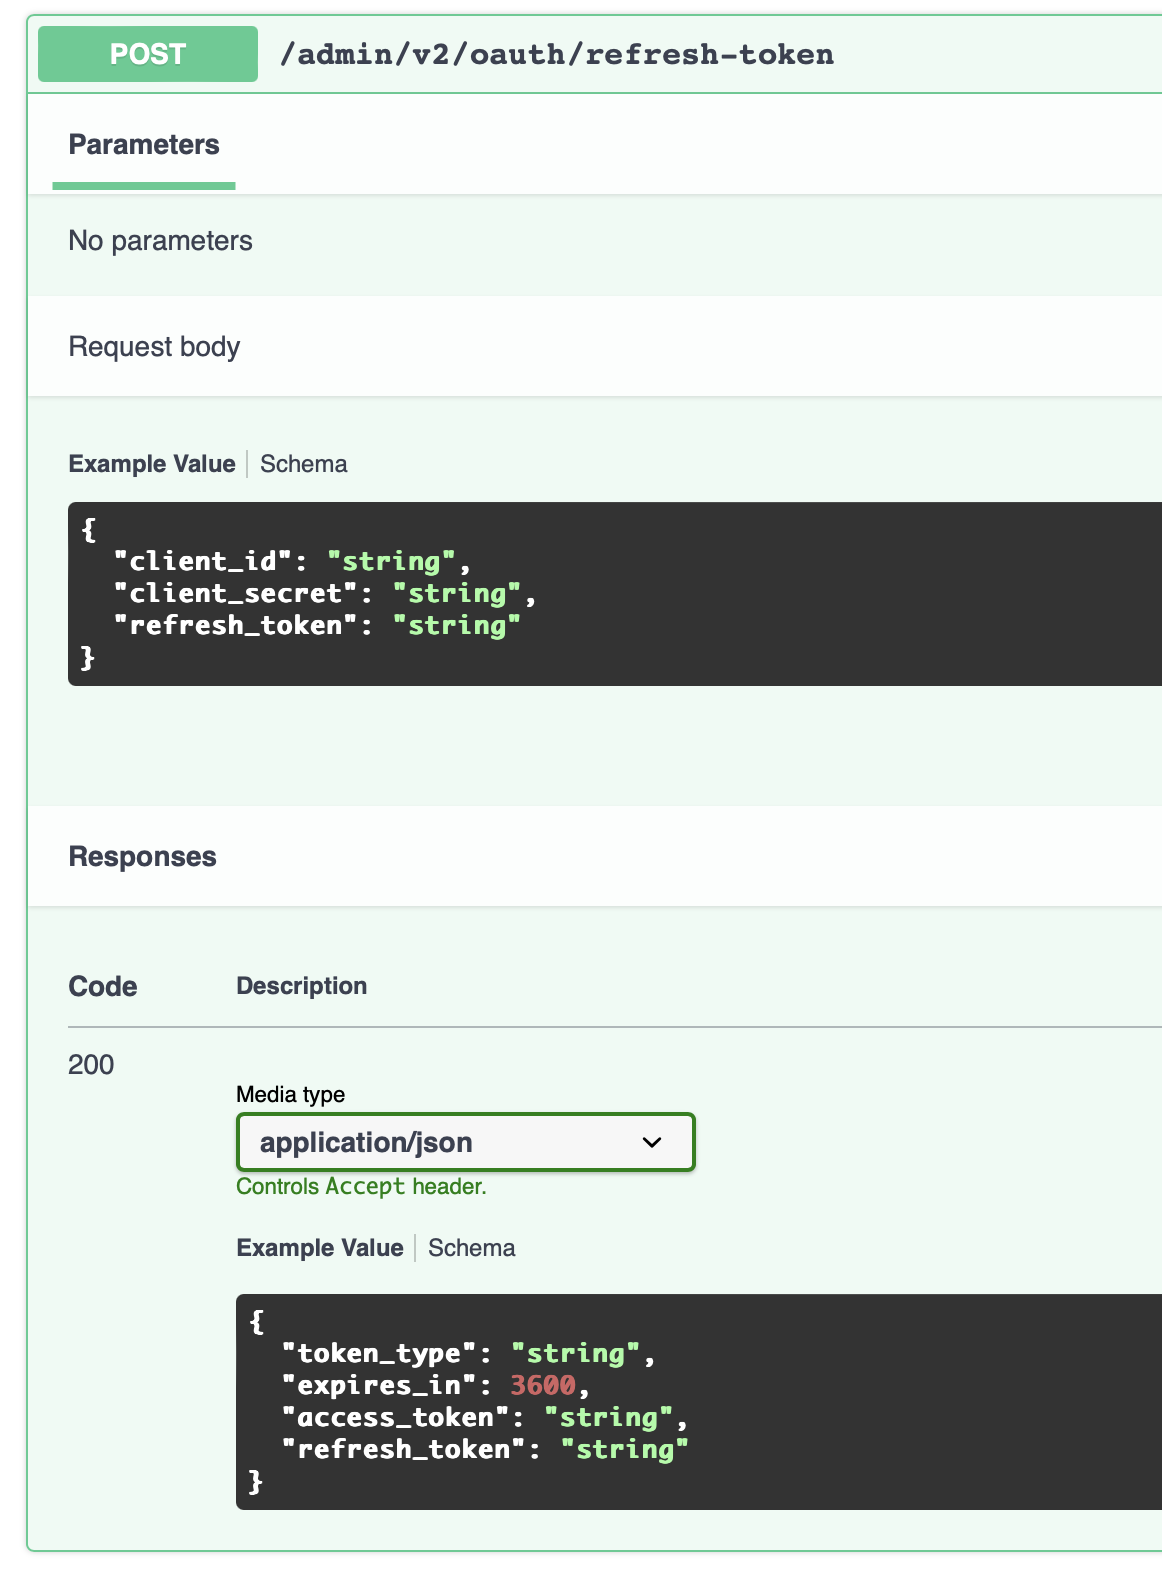
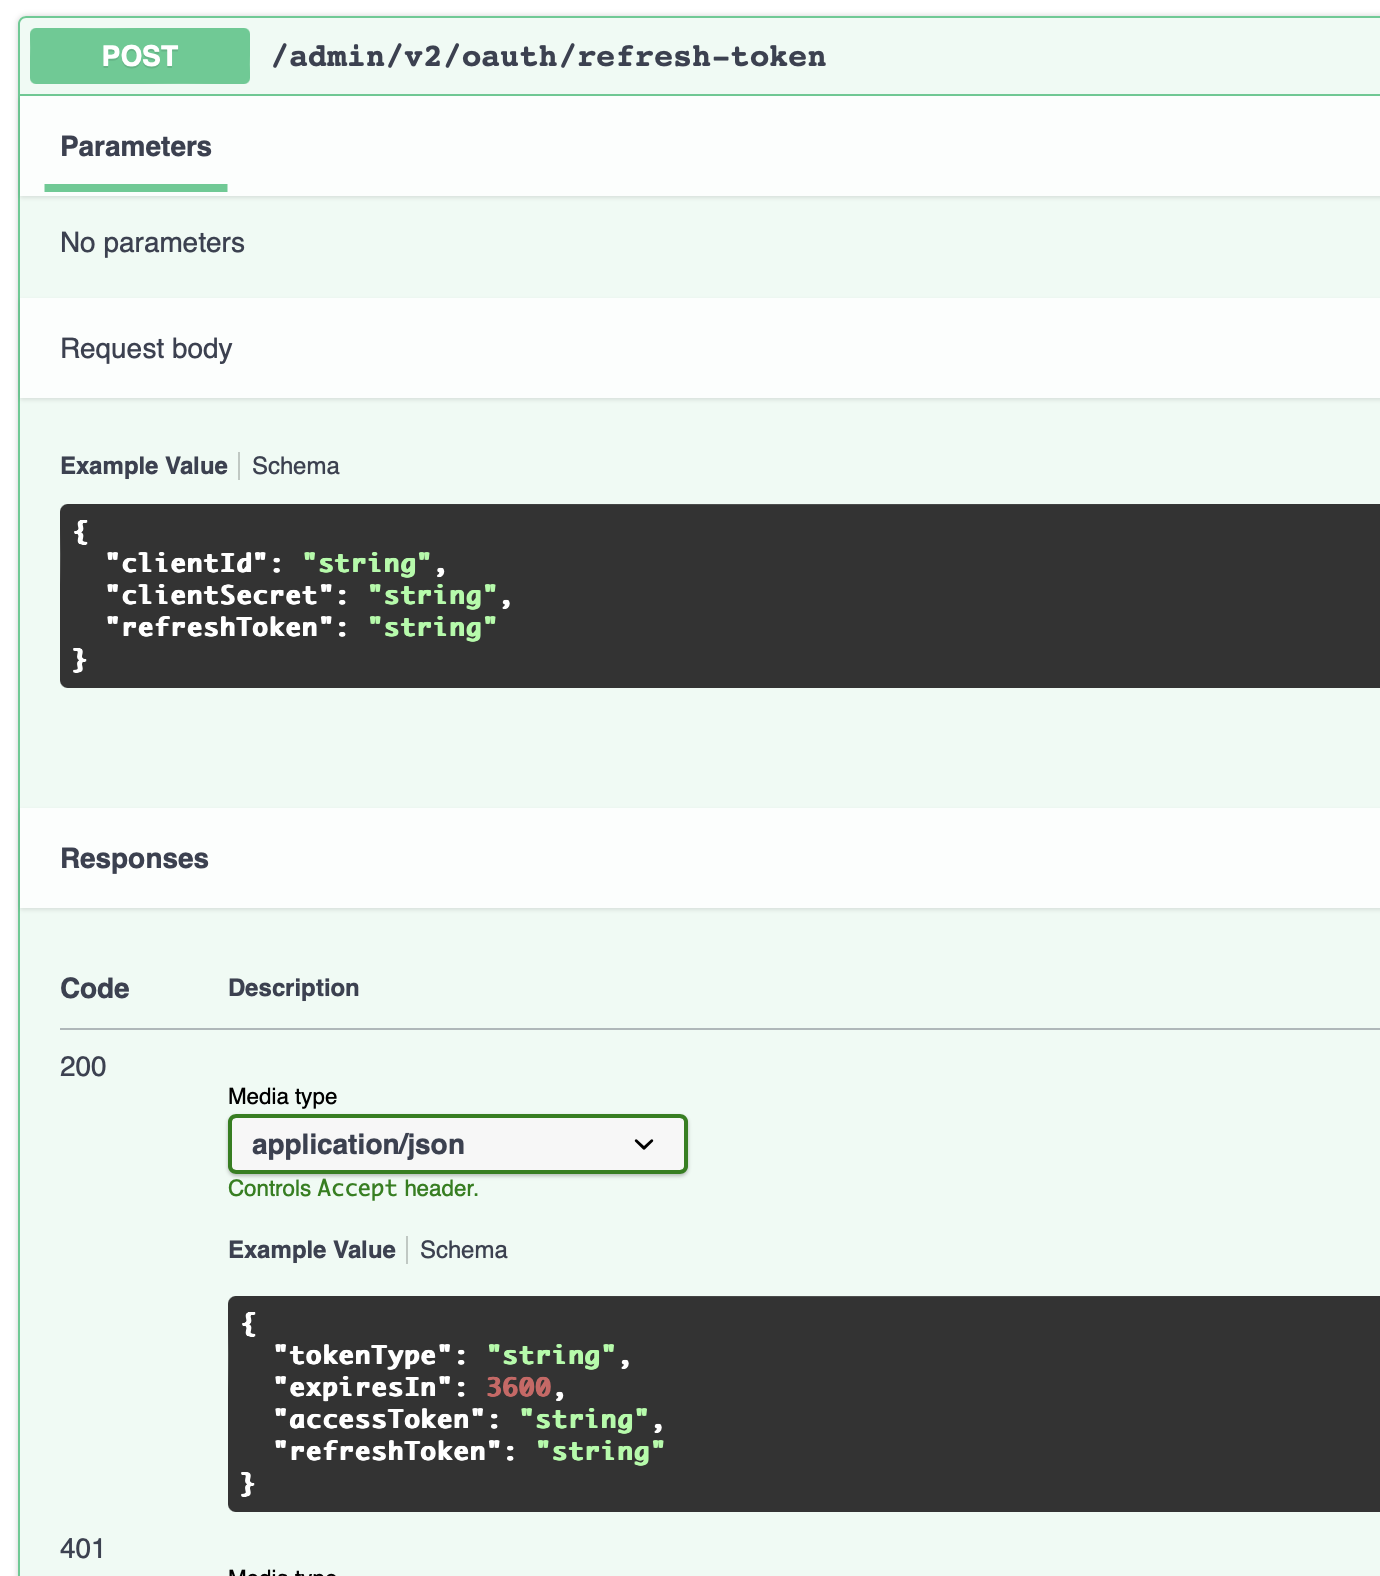
Update V2 camelCase

diff --git a/v2/index.php b/v2/index.php
@@ -22,9 +22,9 @@ if (str_contains($_SERVER['REQUEST_URI'], '/logout')) {
 if (str_contains($_SERVER['REQUEST_URI'], '/refresh-token')) {
     if (isset($_SESSION['refresh_token'])) {
         $data = [
-            'client_id' => $clientId,
-            'client_secret' => $clientSecret,
-            'refresh_token' => $_SESSION['refresh_token'],
+            'clientId' => $clientId,
+            'clientSecret' => $clientSecret,
+            'refreshToken' => $_SESSION['refresh_token'],
         ];
 
         $ch = curl_init();
@@ -38,14 +38,14 @@ if (str_contains($_SERVER['REQUEST_URI'], '/refresh-token')) {
         ]);
         curl_setopt($ch, CURLOPT_POSTFIELDS, json_encode($data, JSON_THROW_ON_ERROR));
 
-        /** @var false|array{token_type: string, expires_in: int, access_token: string, refresh_token: string} $accessTokenData */
+        /** @var false|array{tokenType: string, expiresIn: int, accessToken: string, refreshToken: string} $accessTokenData */
         $accessTokenData = json_decode(curl_exec($ch), true, 512, JSON_THROW_ON_ERROR);
         $responseCode = curl_getinfo($ch, CURLINFO_RESPONSE_CODE);
 
         // User is now signed in - we have both refresh and access token
         if ($responseCode === 200 && $accessTokenData) {
-            $_SESSION['access_token'] = $accessTokenData['access_token'];
-            $_SESSION['refresh_token'] = $accessTokenData['refresh_token'];
+            $_SESSION['access_token'] = $accessTokenData['accessToken'];
+            $_SESSION['refresh_token'] = $accessTokenData['refreshToken'];
         }
 
         echo sprintf('<p><strong>Access token response:</strong> <pre>%s</pre></p>', print_r($accessTokenData, true));
@@ -63,9 +63,9 @@ if (str_contains($_SERVER['REQUEST_URI'], '/' . $callbackPath)) {
 
         $data = [
             'code' => $_GET['code'],
-            'client_id' => $clientId,
-            'client_secret' => $clientSecret,
-            'redirect_uri' => $redirectUri,
+            'clientId' => $clientId,
+            'clientSecret' => $clientSecret,
+            'redirectUri' => $redirectUri,
         ];
 
         $ch = curl_init();
@@ -79,14 +79,14 @@ if (str_contains($_SERVER['REQUEST_URI'], '/' . $callbackPath)) {
         ]);
         curl_setopt($ch, CURLOPT_POSTFIELDS, json_encode($data, JSON_THROW_ON_ERROR));
 
-        /** @var false|array{token_type: string, expires_in: int, access_token: string, refresh_token: string} $accessTokenData */
+        /** @var false|array{tokenType: string, expiresIn: int, accessToken: string, refreshToken: string} $accessTokenData */
         $accessTokenData = json_decode(curl_exec($ch), true, 512, JSON_THROW_ON_ERROR);
         $responseCode = curl_getinfo($ch, CURLINFO_RESPONSE_CODE);
 
         // User is now signed in - we have both refresh and access token
         if ($responseCode === 200 && $accessTokenData) {
-            $_SESSION['access_token'] = $accessTokenData['access_token'];
-            $_SESSION['refresh_token'] = $accessTokenData['refresh_token'];
+            $_SESSION['access_token'] = $accessTokenData['accessToken'];
+            $_SESSION['refresh_token'] = $accessTokenData['refreshToken'];
         }
 
         echo sprintf('<p><strong>Access token response:</strong> <pre>%s</pre></p>', print_r($accessTokenData, true));

diff --git a/readme.md b/readme.md
@@ -2,7 +2,7 @@
 
 ## Usage
 
-*Note: V2 supports only JSON request body. To switch to v1 which uses multipart/form-data request and different endpoints replace v2 with v1 in the start server command below.*
+*Note: V2 supports only JSON request body and properties are camelCase. To switch to v1 which uses multipart/form-data requests, properties are in snake_case and different endpoints replace v2 with v1 in the start server command below.*
 
 You will need to obtain client id + client secret from service provider.
 
